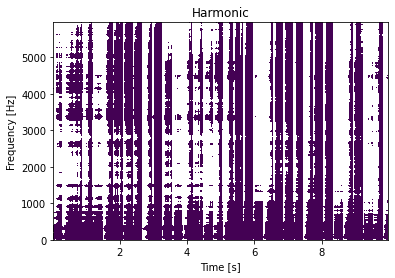
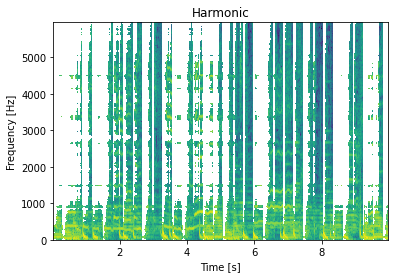
bsm

diff --git a/src/gainza.py b/src/gainza.py
@@ -118,37 +118,37 @@ window_size = int(beatDurationSample / 4)
     percussive_filter,
 ) = harmonic_percussive_separator.separate_components(spectrogram, window_size)
 
-# %%
-plt.pcolormesh(times, frequencies, 20 * np.log10(percussive_filter))
-plt.title("Percussive median filter")
-plt.ylabel("Frequency [Hz]")
-plt.xlabel("Time [s]")
-plt.show()
+# # %%
+# plt.pcolormesh(times, frequencies, 20 * np.log10(percussive_filter))
+# plt.title("Percussive median filter")
+# plt.ylabel("Frequency [Hz]")
+# plt.xlabel("Time [s]")
+# plt.show()
+
+# # %%
+# plt.pcolormesh(times, frequencies, 20 * np.log10(harmonic))
+# plt.title("Harmonic")
+# plt.ylabel("Frequency [Hz]")
+# plt.xlabel("Time [s]")
+# plt.show()
+
+# # %%
+# plt.pcolormesh(times, frequencies, 20 * np.log10(percussive))
+# plt.title("Percussive")
+# plt.ylabel("Frequency [Hz]")
+# plt.xlabel("Time [s]")
+# plt.show()
+
+# # %%
+# plt.pcolormesh(times, frequencies, 20 * np.log10(harmonic_filter))
+# plt.title("Harmonic median filter")
+# plt.ylabel("Frequency [Hz]")
+# plt.xlabel("Time [s]")
+# plt.show()
+
 
 # %%
-plt.pcolormesh(times, frequencies, 20 * np.log10(harmonic))
-plt.title("Harmonic")
-plt.ylabel("Frequency [Hz]")
-plt.xlabel("Time [s]")
-plt.show()
-
-# %%
-plt.pcolormesh(times, frequencies, 20 * np.log10(percussive))
-plt.title("Percussive")
-plt.ylabel("Frequency [Hz]")
-plt.xlabel("Time [s]")
-plt.show()
-
-# %%
-plt.pcolormesh(times, frequencies, 20 * np.log10(harmonic_filter))
-plt.title("Harmonic median filter")
-plt.ylabel("Frequency [Hz]")
-plt.xlabel("Time [s]")
-plt.show()
-
-
-# %%
-spectrogram = spectrogram
+spectrogram = percussive
 
 # %% Calculate AMS
 binsAmount = len(times)

diff --git a/src/tempoMetreDetector/metreDetector/spectrogram/spectrogram_metre_detector.py b/src/tempoMetreDetector/metreDetector/spectrogram/spectrogram_metre_detector.py
@@ -24,9 +24,9 @@ class SpectrogramMetreDetector:
 
         spectrogram = self.__apply_median_filter(spectrogram)
 
-        asm = calculate_asm(spectrogram, times, euclidian_distance)
-        d = self.__calculate_diagonal_function(asm)
-        return self.__detect_metre(asm, d)
+        bsm = calculate_bsm(spectrogram, times, euclidian_distance)
+        d = self.__calculate_diagonal_function(bsm)
+        return self.__detect_metre(bsm, d)
 
     def __apply_median_filter(self, spectrogram):
         if settings.medianFilter == settings.MedianFilterEnum.PERCUSIVE:

diff --git a/src/tempoMetreDetector/metreDetector/spectrogram/harmonic_percussive_separator.py b/src/tempoMetreDetector/metreDetector/spectrogram/harmonic_percussive_separator.py
@@ -5,7 +5,6 @@ import numpy as np
 def separate_components(spectrogram, window_size: np.number):
     percussive_filter = median_filter(spectrogram, window_size, 0)
     harmonic_filter = median_filter(spectrogram, 0, window_size)
-    #   return harmonic_filter, percussive_filter
 
     harmonic = np.zeros(spectrogram.shape)
     percussive = np.zeros(spectrogram.shape)

diff --git a/src/tempoMetreDetector/metreDetector/spectrogram/bsm_calculator.py b/src/tempoMetreDetector/metreDetector/spectrogram/bsm_calculator.py
@@ -15,7 +15,7 @@ def kullback_leibler(oneBin, secondBin):
     return np.sum(oneBin * np.log(oneBin / secondBin))
 
 
-def calculate_asm(spectrogram, times, method):
+def calculate_bsm(spectrogram, times, method):
     binsAmount = len(times)
     asm = np.zeros((binsAmount, binsAmount))
 
